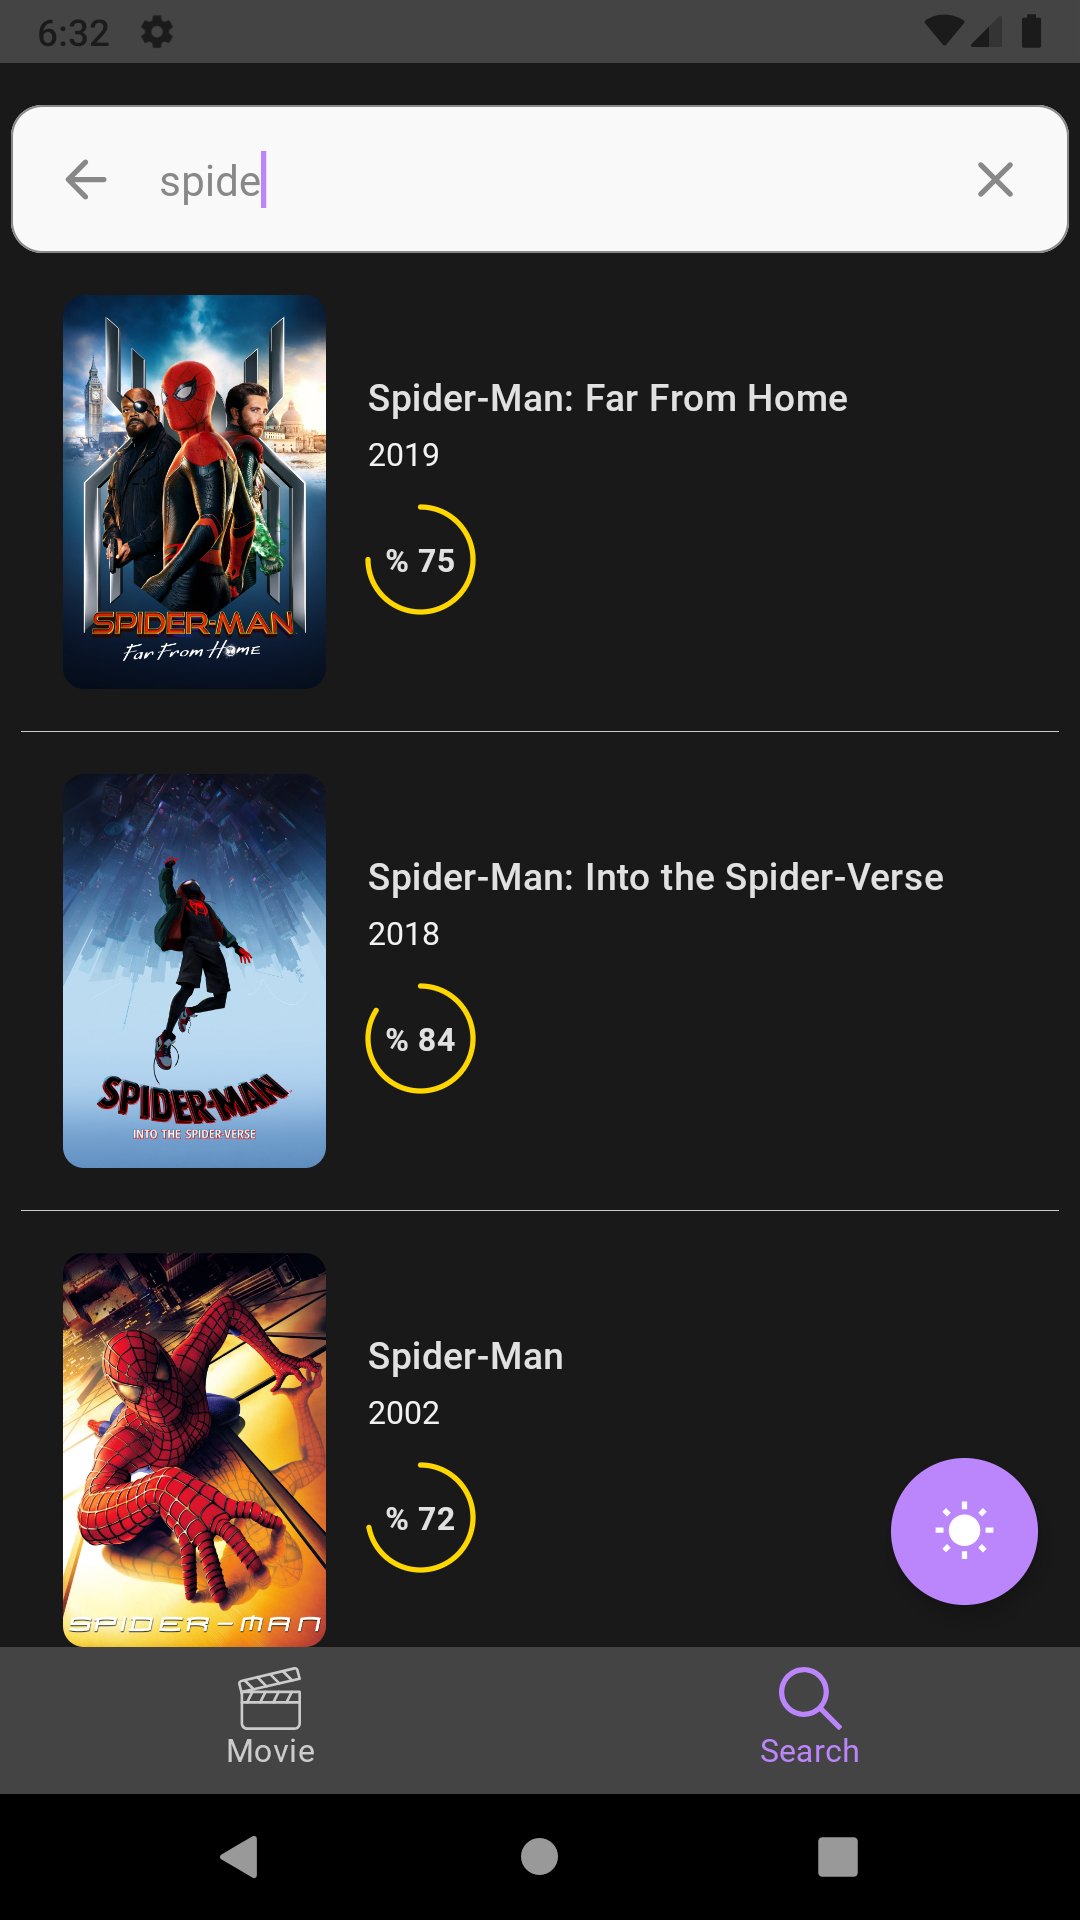
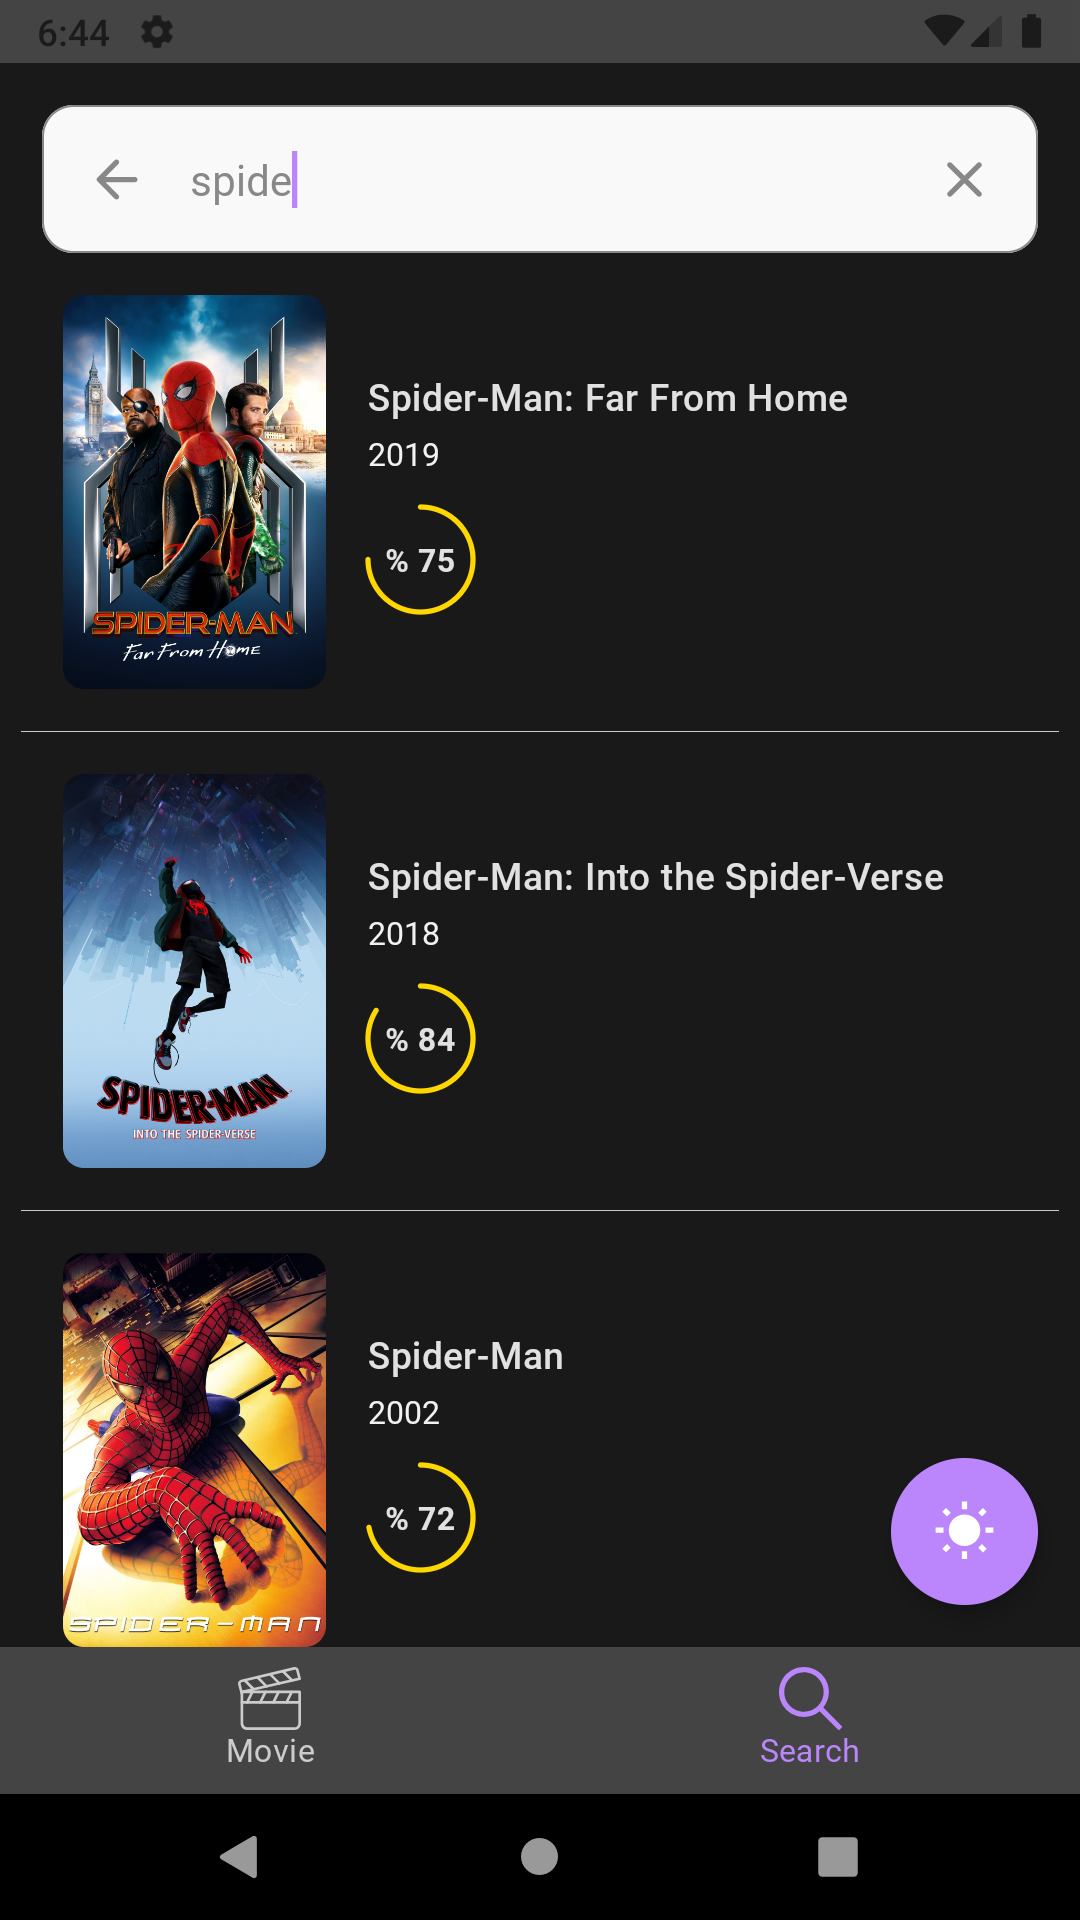
Updated padding sizes in CustomSearchBar.kt

diff --git a/app/src/main/java/com/caner/composemoviedb/ui/component/CustomSearchBar.kt b/app/src/main/java/com/caner/composemoviedb/ui/component/CustomSearchBar.kt
@@ -66,8 +66,8 @@ fun CustomSearchBar(
 
     val paddingSize: Dp by animateDpAsState(
         targetValue = if (isHintActive) {
-            Dimens.MediumPadding.size
-        } else 4.dp
+            Dimens.UpperMediumPadding.size
+        } else Dimens.MediumPadding.size
     )
 
     val angle: Float by animateFloatAsState(
